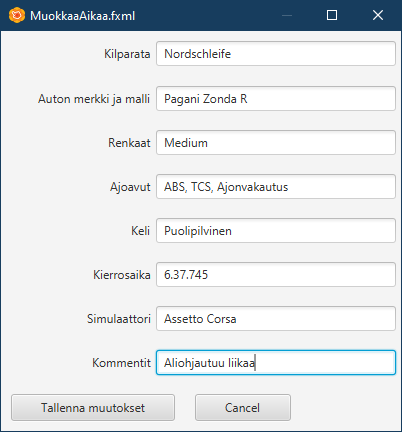
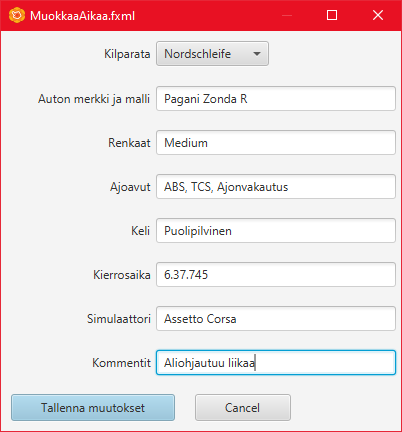
Havainnekuvia muokattu ja aikaa lisätessä ja muokattaessa radan valintaa parannettu

Changed region(s): [[0.0, 0.0, 1.0, 1.0]]

diff --git a/src/fxLapTracker/MuokkaaAikaaGUIController.java b/src/fxLapTracker/MuokkaaAikaaGUIController.java
@@ -1,5 +1,6 @@
 package fxLapTracker;
 
+import fi.jyu.mit.fxgui.ComboBoxChooser;
 import fi.jyu.mit.fxgui.ModalController;
 import fi.jyu.mit.fxgui.ModalControllerInterface;
 import javafx.fxml.FXML;
@@ -25,7 +26,7 @@ public class MuokkaaAikaaGUIController implements ModalControllerInterface<Strin
     private TextField textKeli;
 
     @FXML
-    private TextField textKilparata;
+    private ComboBoxChooser<?> chooserKilparata;
 
     @FXML
     private TextField textKommentit;

diff --git a/src/fxLapTracker/UusiAikaGUIController.java b/src/fxLapTracker/UusiAikaGUIController.java
@@ -1,5 +1,6 @@
 package fxLapTracker;
 
+import fi.jyu.mit.fxgui.ComboBoxChooser;
 import fi.jyu.mit.fxgui.ModalController;
 import fi.jyu.mit.fxgui.ModalControllerInterface;
 import javafx.fxml.FXML;
@@ -26,7 +27,7 @@ public class UusiAikaGUIController implements ModalControllerInterface<String> {
     private TextField textKeli;
 
     @FXML
-    private TextField textKilparata;
+    private ComboBoxChooser<?> chooserKilparata;
 
     @FXML
     private TextField textKommentit;
